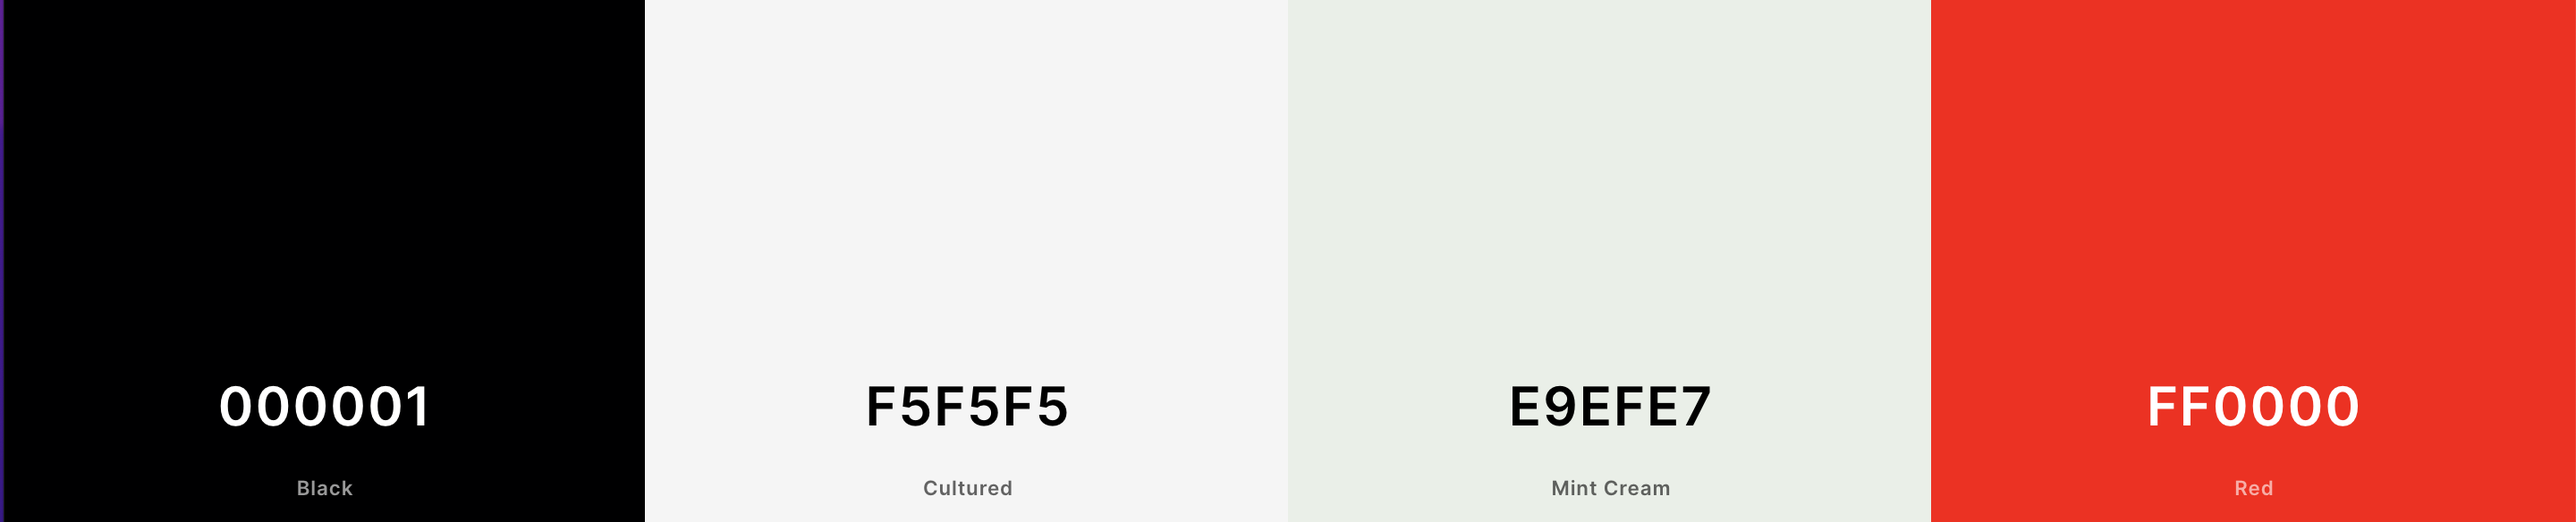
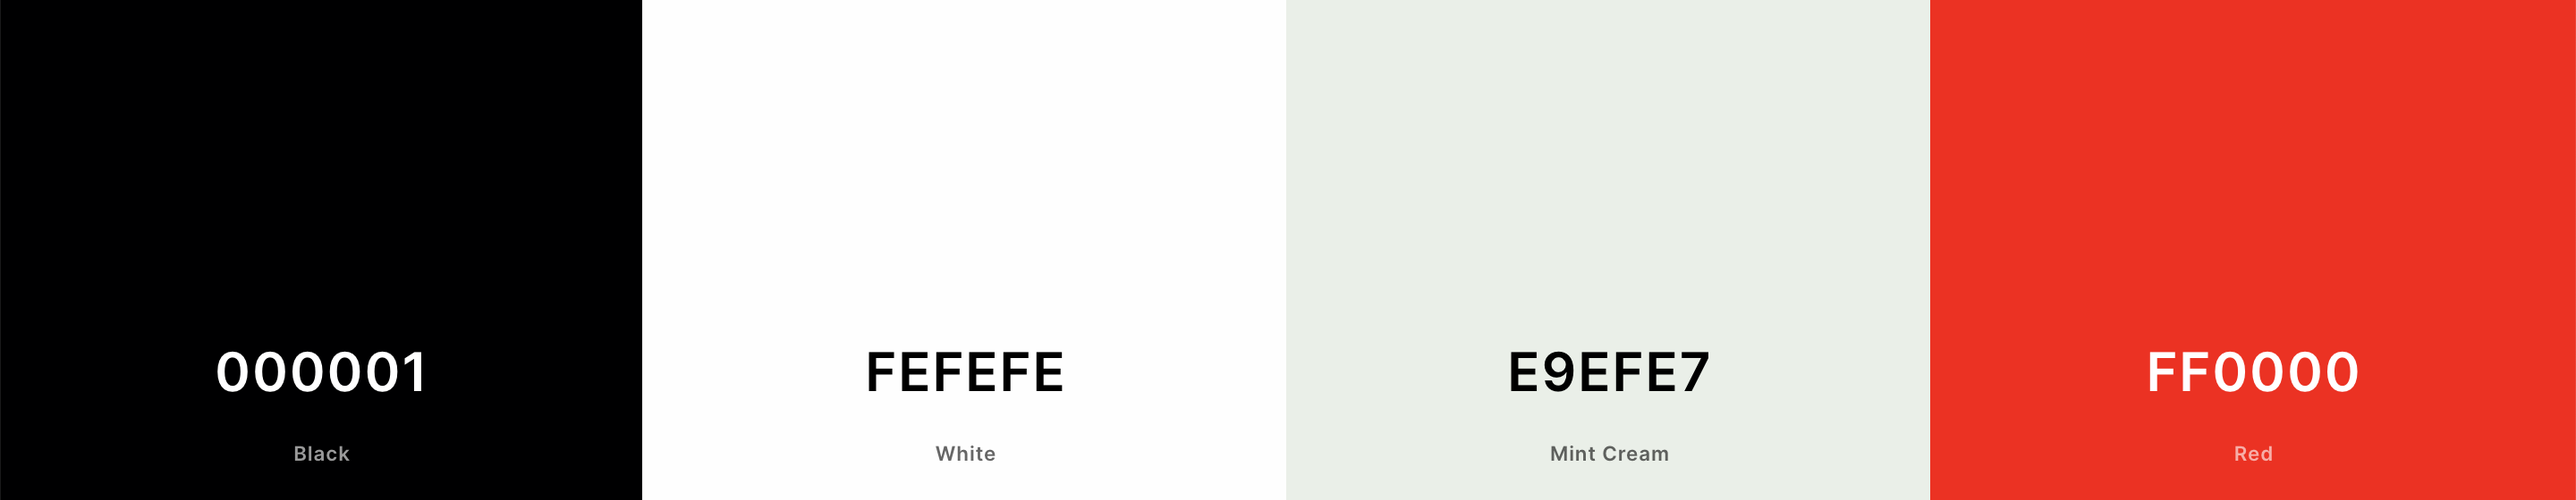
Change background color for body and fix code from jshint testing

diff --git a/static/css/style.css b/static/css/style.css
@@ -8,6 +8,7 @@ font-family: 'Rock 3D', cursive;
 body {
     font-family: 'Montserrat', sans-serif;
     font-weight: 300;
+    background-color: #fefefe;
 }
 
 h1, h2 {
@@ -192,7 +193,7 @@ table {
  
 .StripeElement,
 .orderform-style-input,
-.customer-form-style-input {
+.customer-form-input {
     box-sizing: border-box;
     font-family: 'Montserrat', sans-serif;
     color: #000;

diff --git a/checkout/static/checkout/js/stripe_elements.js b/checkout/static/checkout/js/stripe_elements.js
@@ -67,5 +67,5 @@ form.addEventListener('submit', function(ev) {
     }).fail(function () {
         // just reload the page
         location.reload();
-    })
+    });
 });

diff --git a/customers/forms.py b/customers/forms.py
@@ -36,5 +36,5 @@ class CustomerForm(forms.ModelForm):
             if field != 'country':
                 placeholder = placeholders[field]
             self.fields[field].widget.attrs['placeholder'] = placeholder
-            self.fields[field].widget.attrs['class'] = 'customer-form-style-input'
+            self.fields[field].widget.attrs['class'] = 'customer-form-input'
             self.fields[field].label = False

diff --git a/TESTING.md b/TESTING.md
@@ -23,19 +23,17 @@ There are no errors form the offical [Jigsaw validator](https://jigsaw.w3.org/cs
 
 ### JavaScript
 No errors where found when going through the offical [Jshint validator](https://jshint.com/).
- * There are 2 functions in this file.
- * Function with the largest signature take 1 arguments, while the median is 1.
- * Largest function has 1 statements in it, while the median is 1.
- * The most complex function has a cyclomatic complexity value of 1 while the median is 1.
+* There are 4 functions in this file.
+* Function with the largest signature take 1 arguments, while the median is 1.
+* Largest function has 8 statements in it, while the median is 4.5.
+* The most complex function has a cyclomatic complexity value of 3 while the median is 1.5.
 
     ![script.js](documentation/testing/jshint.png)
 
 ### Python
 The code passed through [PEP8 linter](http://pep8online.com/checkresult). The result confirmed there are no problems with the code.
 
-![PEP8-Form](documentation/testing/pep8forms.png)
-![PEP8-Models](documentation/testing/pep8models.png)
-![PEP8-Views](documentation/testing/pep8views.png)
+![PEP8](documentation/testing/pep8forms.png)
 
 ## Browser Compatibility
 ### Google Chrome

diff --git a/README.md b/README.md
@@ -27,13 +27,13 @@ The website design is minimalistic, focusing on the main product, handmade poste
 ### Colour Scheme
 The website's primary colors are:
 * Black (#000001)
-* Cultured white (#F5F5F5)
+* Cultured white (#FEFEFE)
 * Light green color (#E9EFE7)
 * Red (#FF0000)
 
 ![Colorpallet](documentation/images/colorpallet.png)
 
-[Coolors.co](https://coolors.co/000001-f5f5f5-e9efe7-ff0000) to create the color pallet for the project. The green and white colors give the web application a soft and minimalistic feel to highlight the contrasts of the posters and the logo's diamond edges.
+[Coolors.co](https://coolors.co/000001-fefefe-e9efe7-ff0000) to create the color pallet for the project. The green and white colors give the web application a soft and minimalistic feel to highlight the contrasts of the posters and the logo's diamond edges.
 The red color highlights errors or messages to catch the user's attention.
 The black color is to connect and contrast the primary colors of the posters. 
 
@@ -269,7 +269,6 @@ jQuery for index request poster form:
 
 Bootstrap:
 [Bootstarp5](https://https://getbootstrap.com/docs/5.1/getting-started/introduction/)
-
 
 [](https://)
 [](https://)
